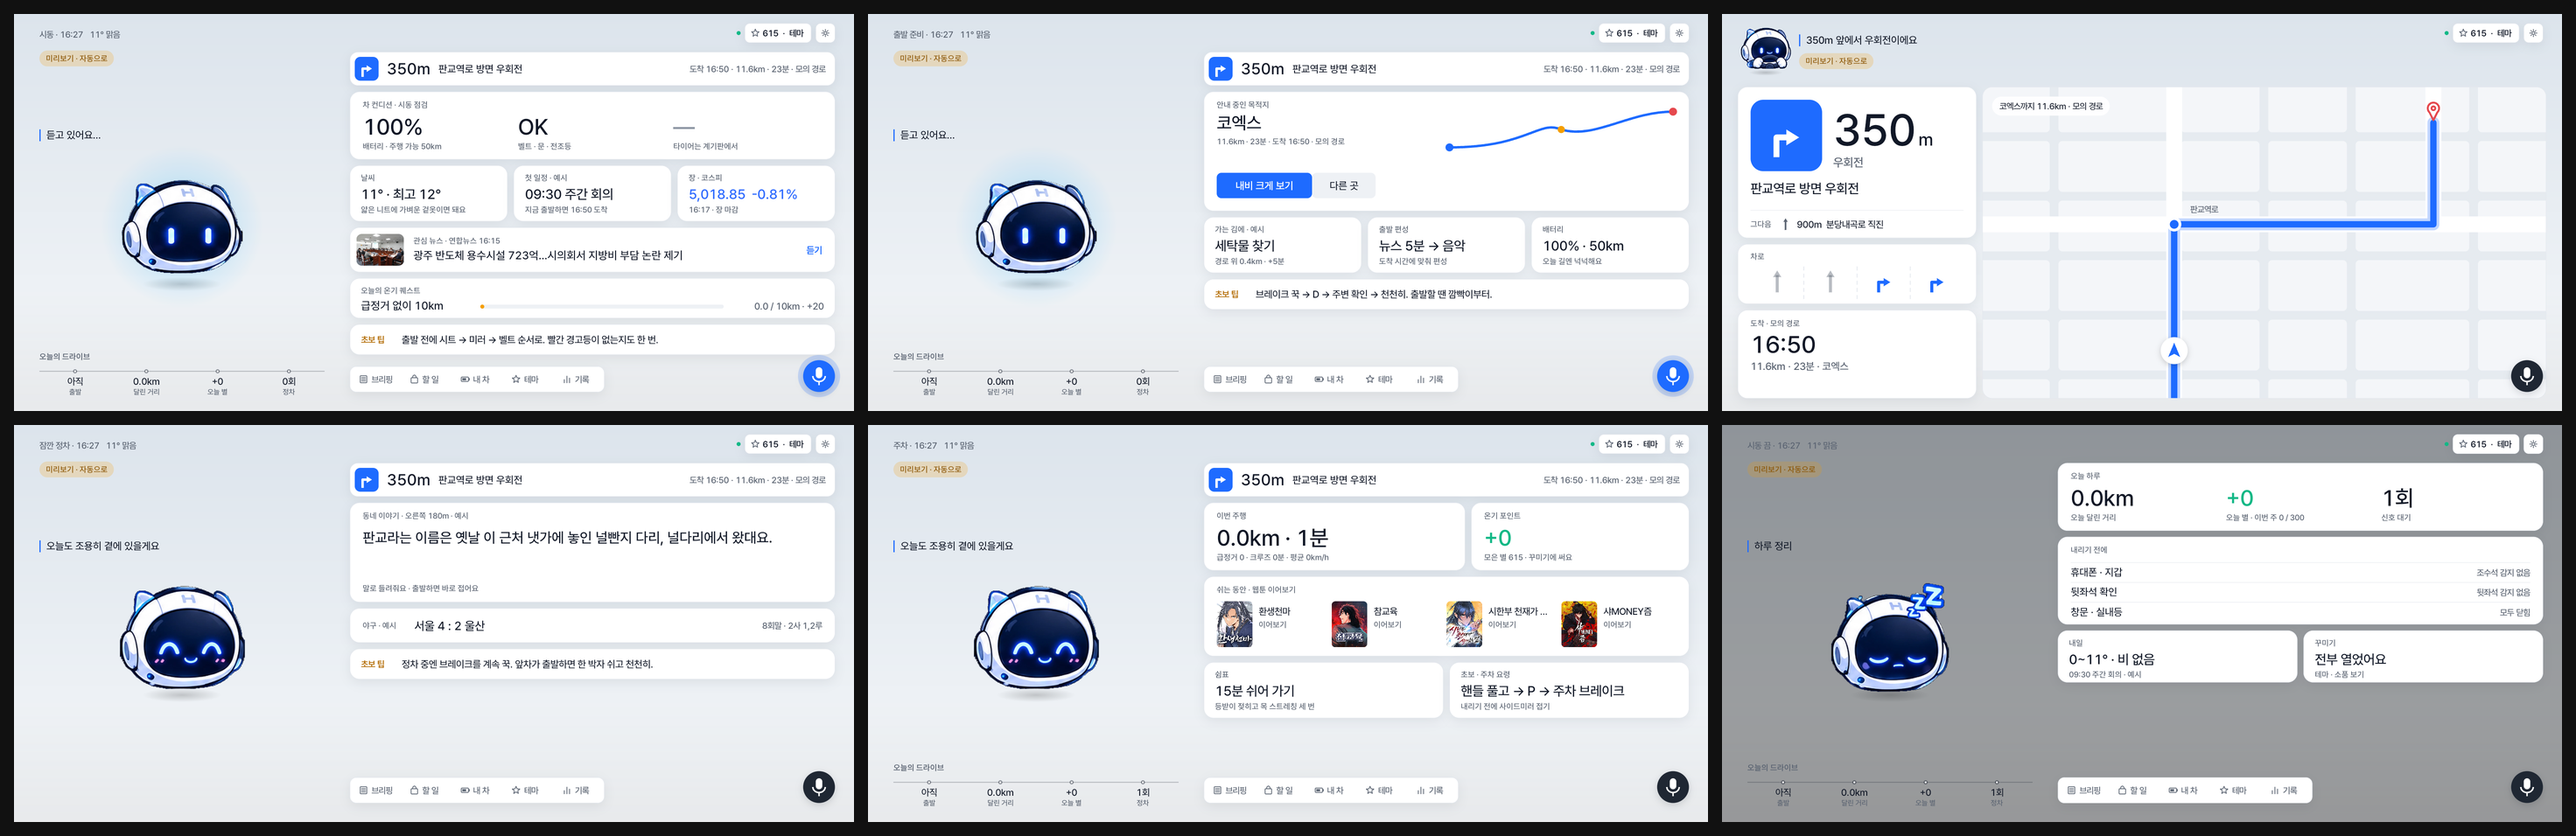
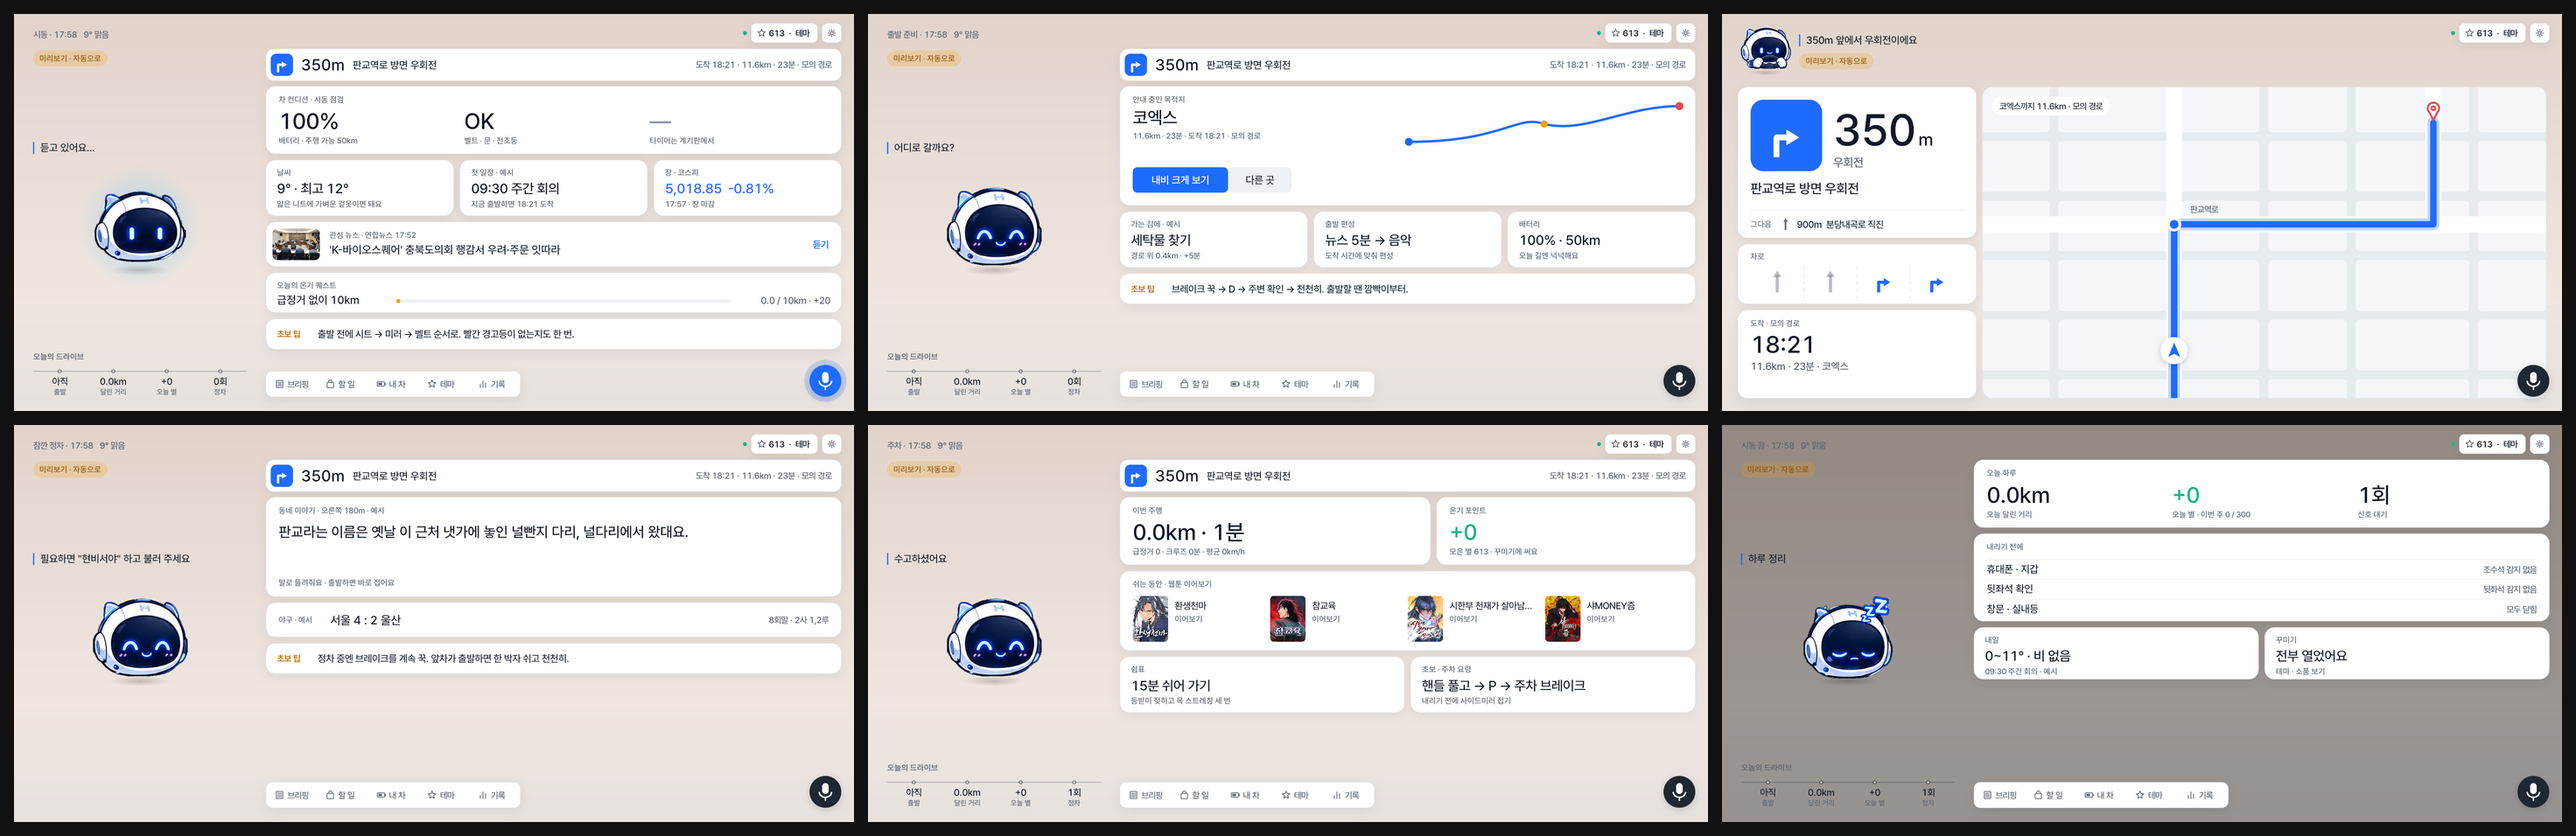
현비서 내용 칸 넓힘 — 캐릭터 칸 30% · 높이 25%, 내용 칸 70% · 바깥 여백 줄임 · 웹툰 한 줄 5권(표지 비율 유지)
Claude-Session: https://claude.ai/code/session_01NYUAipvm6FJwYqiY7XoRJQ

diff --git a/android/hyun/src/main/java/io/github/somanghao/makecar/hyun/ui/StageUi.kt b/android/hyun/src/main/java/io/github/somanghao/makecar/hyun/ui/StageUi.kt
@@ -128,11 +128,11 @@ class StageUi(private val v: HyunView, private val m: StageModel, private val ac
         if (navMain != lastNavMain) { lastNavMain = navMain; navMainAt = now }
         val nx = ((now - navMainAt) / 480f).coerceIn(0f, 1f); val ne = 1f - (1f - nx) * (1f - nx) * (1f - nx)
         val nk = if (navMain) ne else 1f - ne            // 0 = 보통 화면 · 1 = 내비 주화면
-        zoneL = if (mirror) 48 * U else w * 0.4f; zoneR = if (mirror) w * 0.6f else w - 48 * U
+        zoneL = if (mirror) 32 * U else w * 0.3f; zoneR = if (mirror) w * 0.7f else w - 32 * U   // 내용 칸 70%(댄 11-09 "컨텐츠가 영역을 더")
         if (m.sit == Sit.OFF) scrim(c, w, h, ((now - m.sitAt) / 1500f).coerceIn(0f, 0.35f))
         // 캐릭터 — 보통: 화면 높이 33% · 내비 주화면: 14% 배지(왼쪽 위)
         val showLine = !driving && m.sit != Sit.STOP && !intro && m.view == null
-        val bigH = h * 0.33f; val bigCx = if (mirror) w * 0.8f else w * 0.2f; val bigFeet = h * 0.7f
+        val bigH = h * 0.25f; val bigCx = if (mirror) w * 0.85f else w * 0.15f; val bigFeet = h * 0.66f
         val smH = h * 0.14f; val smCx = 40 * U + smH / 2; val smFeet = 16 * U + smH
         val chH = bigH + (smH - bigH) * nk; val cx = bigCx + (smCx - bigCx) * nk; val feet = bigFeet + (smFeet - bigFeet) * nk
         val react = m.reactFace.takeIf { now - m.reactAt < 1200 }
@@ -143,10 +143,10 @@ class StageUi(private val v: HyunView, private val m: StageModel, private val ac
         character(c, cx, feet, chH, t, face, alive = !driving && nk < 0.5f, small = nk > 0.5f)
         if (!intro) {
             if (nk > 0.5f) speech(c, cx + chH * 0.6f, 16 * U + chH * 0.42f, w * 0.5f, navLine())
-            else if (mirror) speech(c, zoneR + 64 * U, feet - chH - 56 * U, w - zoneR - 128 * U)
-            else speech(c, 64 * U, feet - chH - 56 * U, zoneL - 128 * U)
+            else if (mirror) speech(c, zoneR + 48 * U, feet - chH - 64 * U, w - zoneR - 96 * U)
+            else speech(c, 48 * U, feet - chH - 64 * U, zoneL - 96 * U)
         }
-        if (showLine && nk < 0.01f) { if (mirror) timeline(c, zoneR + 64 * U, w - 160 * U, h - 100 * U) else timeline(c, 64 * U, zoneL - 64 * U, h - 100 * U) }
+        if (showLine && nk < 0.01f) { if (mirror) timeline(c, zoneR + 48 * U, w - 160 * U, h - 100 * U) else timeline(c, 48 * U, zoneL - 48 * U, h - 100 * U) }
         topRight(c, w)
         if (intro) {   // 테마 인트로
             themeIntro(c, w, h, ((now - m.sitAt) / 1800f).coerceIn(0f, 1f), false)
@@ -163,9 +163,9 @@ class StageUi(private val v: HyunView, private val m: StageModel, private val ac
                 header(c)
                 val card = v.card
                 val sheetOn = m.overlay in setOf("brief", "todo", "car", "log")
-                val bottom = h - 48 * U - 64 * U - 20 * U
-                var top = 96 * U
-                if (m.navActive && !navMain) { navStrip(c, RectF(zoneL, top, zoneR, top + 84 * U)); top += 84 * U + 16 * U }
+                val bottom = h - 36 * U - 64 * U - 16 * U
+                var top = 88 * U
+                if (m.navActive && !navMain) { navStrip(c, RectF(zoneL, top, zoneR, top + 80 * U)); top += 80 * U + 14 * U }
                 val full = RectF(zoneL, top, zoneR, bottom)
                 when {
                     sheetOn -> sheet(c, full, m.overlay!!)
@@ -319,12 +319,12 @@ class StageUi(private val v: HyunView, private val m: StageModel, private val ac
         val h = 48 * U; val cy = 48 * U
         if (k.id == "arcade") {   // 8비트 점수판
             val g = tf("Galmuri11.ttf")
-            text(c, "SCORE %06d".format(m.points), w - 48 * U, cy + 6 * U, 26 * U, 0xFFFFE14D.toInt(), g, Paint.Align.RIGHT)
-            text(c, "HI %06d".format(max(m.points, 1200)), w - 48 * U, cy + 36 * U, 18 * U, 0xFF00F0FF.toInt(), g, Paint.Align.RIGHT)
-            p.textSize = 26 * U; p.typeface = g; hits += RectF(w - 48 * U - p.measureText("SCORE 000000"), cy - 24 * U, w - 48 * U, cy + 40 * U) to "deco"
+            text(c, "SCORE %06d".format(m.points), w - 32 * U, cy + 6 * U, 26 * U, 0xFFFFE14D.toInt(), g, Paint.Align.RIGHT)
+            text(c, "HI %06d".format(max(m.points, 1200)), w - 32 * U, cy + 36 * U, 18 * U, 0xFF00F0FF.toInt(), g, Paint.Align.RIGHT)
+            p.textSize = 26 * U; p.typeface = g; hits += RectF(w - 32 * U - p.measureText("SCORE 000000"), cy - 24 * U, w - 32 * U, cy + 40 * U) to "deco"
             return
         }
-        val g = RectF(w - 48 * U - h, cy - h / 2, w - 48 * U, cy + h / 2)
+        val g = RectF(w - 32 * U - h, cy - h / 2, w - 32 * U, cy + h / 2)
         glassCard(c, g, 12 * U); icon(c, "gear", g.centerX(), cy, 22 * U, MUTED); hits += g to "settings"
         val lab = "${m.points}  ·  테마"
         p.textSize = 22 * U; p.typeface = semi
@@ -610,7 +610,7 @@ class StageUi(private val v: HyunView, private val m: StageModel, private val ac
     private val DOCK = listOf("brief" to "브리핑", "todo" to "할 일", "car" to "내 차", "deco" to "테마", "log" to "기록")
     private fun dock(c: Canvas, w: Float, h: Float) {
         val dh = 64 * U; val iw = 128 * U
-        val r = RectF(zoneL, h - 48 * U - dh, zoneL + iw * DOCK.size, h - 48 * U)
+        val r = RectF(zoneL, h - 36 * U - dh, zoneL + iw * DOCK.size, h - 36 * U)
         glassCard(c, r, 16 * U)
         DOCK.forEachIndexed { i, (key, lab) ->
             val b = RectF(r.left + i * iw, r.top, r.left + (i + 1) * iw, r.bottom)
@@ -725,7 +725,7 @@ class StageUi(private val v: HyunView, private val m: StageModel, private val ac
     /** 마이크 — 오른쪽 아래 동그라미 하나(상태 글은 옆에 작게) */
     private fun micButton(c: Canvas, w: Float, h: Float) {
         val rr = 40 * U
-        val mx = w - 48 * U - rr; val my = h - 48 * U - rr
+        val mx = w - 32 * U - rr; val my = h - 36 * U - rr
         val mc = when (v.mode) { HyunView.Mode.LISTENING -> ACC; else -> if (darkUi) 0xFF262C36.toInt() else 0xFF1F2733.toInt() }
         if (v.mode == HyunView.Mode.LISTENING) { p.color = Glass.a(ACC, 50); c.drawCircle(mx, my, rr * (1.25f + 0.08f * sin(SystemClock.elapsedRealtime() / 160f)), p) }   // 라이브 상태만 움직인다
         p.color = mc; p.setShadowLayer(16 * U, 0f, 6 * U, 0x29111827); c.drawCircle(mx, my, rr, p); p.clearShadowLayer()
@@ -943,7 +943,7 @@ class StageUi(private val v: HyunView, private val m: StageModel, private val ac
     /** 왼쪽 위 — 상황 · 시각 · 날씨(세 번 누르면 디버그 판) + 레이아웃 칩(상황 화면으로 · 미리보기) */
     private fun header(c: Canvas) {
         val col = if (sceneDark) 0xCCFFFFFF.toInt() else MUTED
-        val x = if (mirror) zoneR + 64 * U else 64 * U
+        val x = if (mirror) zoneR + 48 * U else 48 * U
         val line = "${m.sit.label} · ${m.kicker.substringAfter(" · ")}" + (if (m.weatherShort.isNotBlank()) "   ${m.weatherShort}" else "")
         text(c, line, x, 60 * U, 22 * U, col, medium)
         p.textSize = 22 * U; p.typeface = medium; hits += RectF(x - 8 * U, 28 * U, x + p.measureText(line) + 8 * U, 76 * U) to "sitpill"
@@ -1314,12 +1314,12 @@ class StageUi(private val v: HyunView, private val m: StageModel, private val ac
                 lab(c, "오늘의 인기 · 네이버 웹툰 ${m.toonSource.substringAfter(" ")}", shelf.left + 32 * U, shelf.top + 40 * U)
                 // 표지(네이버 썸네일 480×623 ≈ 1:1.3)를 자르지 않게 — 비율 그대로 한 줄 4권, 넘기기
                 val g = RectF(shelf.left + 32 * U, shelf.top + 62 * U, shelf.right - 32 * U, shelf.bottom - 20 * U)
-                val per = 4; val ratio = 623f / 480f
+                val per = if (g.width() / 5 >= 230 * U) 5 else 4; val ratio = 623f / 480f
                 val coverW = min((g.width() - G * 1.5f * (per - 1)) / per, (g.height() - 60 * U) / ratio); val coverH = coverW * ratio
                 val gapX = (g.width() - coverW * per) / (per - 1)
                 val pages = max(1, (m.toons.size + per - 1) / per); val pg = m.toonPage % pages
                 if (m.toons.isEmpty()) text(c, "웹툰을 불러오는 중이에요", g.left, g.top + 60 * U, 26 * U, MUTED, medium)
-                if (pages > 1) { val lab2 = "${pg * per + 1}–${min(m.toons.size, pg * per + per)} / ${m.toons.size}   다음 ›"
+                if (pages > 1 && m.toons.size > per) { val lab2 = "${pg * per + 1}–${min(m.toons.size, pg * per + per)} / ${m.toons.size}   다음 ›"
                     text(c, lab2, shelf.right - 32 * U, shelf.top + 40 * U, 20 * U, ACC, semi, Paint.Align.RIGHT)
                     p.textSize = 20 * U; p.typeface = semi; hits += RectF(shelf.right - 48 * U - p.measureText(lab2), shelf.top + 8 * U, shelf.right - 16 * U, shelf.top + 60 * U) to "toon:next" }
                 val gy = g.top + (g.height() - coverH - 52 * U) / 2

diff --git a/docs/hyun-app.md b/docs/hyun-app.md
@@ -77,7 +77,7 @@ Claude Code 세션(두뇌): wait.py를 run_in_background로 띄워 두고(대기
 - 허브 '주행 상태' 패널: 상황 버튼 아래 '화면' select(자동 · 상황 6 · 취미 9) + '내비' 칩 → 위 두 키로 보낸다. 앱 안에서는 왼쪽 위 상황 글자를 세 번 누르면 디버그 판(상황 · 취미 · 내비 켜기 · 차 신호)
 
 ### 상황 화면 · 취미 레이아웃 · 내비(11-09, 기준 = `docs/hyun-content-plan.md`)
-- 배치: 캐릭터 왼쪽(화면 높이 33%, 캡션은 머리 위 한 줄) · 오른쪽 60% = 상황 화면(카드 묶음) 또는 취미 레이아웃 하나 · 아래 독 · 오른쪽 아래 마이크. 그리는 곳 `StageUi.stateScreen()` · `category()` · `navStrip()` · `navMainScreen()`
+- 배치(11-09 댄 "컨텐츠가 영역을 더"): 캐릭터 왼쪽 30% 칸(화면 높이 25%, 캡션은 머리 위 한 줄) · 오른쪽 70% = 상황 화면(카드 묶음) 또는 취미 레이아웃 하나 · 아래 독 · 오른쪽 아래 마이크. 그리는 곳 `StageUi.stateScreen()` · `category()` · `navStrip()` · `navMainScreen()`
 - 상황 화면 6: 시동(차 컨디션 · 날씨/첫 일정/장 · 관심 뉴스 · 온기 퀘스트) · 출발 준비(목적지 + 경로 미리보기 + 안내 시작 · 가는 김에/출발 편성/배터리) · 주행 중(= 내비 주화면) · 신호대기(다음 안내 · 동네 이야기 한 장 · 점수 한 줄) · 주차(이번 주행 · 온기 포인트 · 웹툰 이어보기 · 쉼표/주차 요령) · 시동 끔(오늘 하루 · 내리기 전에 · 내일/꾸미기). 신호 반응 이야기(2분)는 맨 위 한 줄
 - 취미 9: 뉴스(리드 사진 + 헤드라인 목록, 연합뉴스 RSS) · 내비(주화면) · 웹툰(표지 5×2 + 이어보기, 서버 네이버 웹툰) · 음악(정사각 앨범 + 진행 + 다음 곡, 예시) · 스포츠(전광판 + 이닝 표, 예시) · 주식(지수 큰 숫자 + 장중 선 + 시총 상위, 서버 네이버 증권 · 장중 선은 모양 예시) · 날씨(큰 기온 + 시간대 띠 + 차림, Open-Meteo) · 동네 이야기(인용 카드 + 근처, 예시) · 일정(시간 축 + 가는 김에, 예시)
 - 허용 규칙(`StageModel.ALLOWED`): 주행 중 = 내비만(나머지는 음성) · 신호대기 = 내비 · 동네 이야기 · 웹툰 = 주차만 · 그 밖 = 정지 상황(시동 · 출발 준비 · 주차 · 시동 끔). 사용자가 연 레이아웃은 상황이 바뀌어 허용 밖이면 자동으로 닫힘. 미리보기는 예외

diff --git a/docs/hyun-content-plan.md b/docs/hyun-content-plan.md
@@ -95,7 +95,7 @@
 | 일정/할 일 | **시간 축 타임라인 + 가는 김에 끼우기** | 시각 열 · 일정 · 장소 · 가는 김에(경유 추가) | 첫 일정 | 가는 김에 | 음성(10분 전) | — | — | 내일 첫 일정 |
 
 공통 규칙
-- 캐릭터는 늘 왼쪽(높이 33%) — 카테고리가 바뀌어도 캐릭터 캡션 한 줄이 그 정보를 말로 요약("오늘 장은 조금 내렸어요").
+- 캐릭터는 늘 왼쪽(높이 25% · 왼쪽 30% 칸, 11-09 내용 칸을 70%로 넓힘) — 카테고리가 바뀌어도 캐릭터 캡션 한 줄이 그 정보를 말로 요약("오늘 장은 조금 내렸어요").
 - 카테고리 레이아웃은 색만 바꾸지 않는다 — 정보의 모양이 다르다(사진 / 큰 화살표 / 표지 / 정사각 / 전광판 / 큰 숫자 + 선 / 큰 기온 / 인용 / 시간 축).
 - 주행 중엔 내비 레이아웃만, 나머지는 음성. 신호대기는 "한 줄" 버전, 주차는 "전체" 버전.
 - 숫자는 고정폭, 등락 색은 의미에만(상승 빨강 · 하락 파랑 — 국내 관례), 강조색은 화면당 1~2곳.

diff --git a/docs/hyun-design.md b/docs/hyun-design.md
@@ -20,7 +20,7 @@
 
 ## 레이아웃 (1920×1080 기준, 실제 앱 영역에 비율 적용)
 - 12컬럼, 바깥 여백 48, 거터 24, 8px 단위.
-- 캐릭터 존 왼쪽 7컬럼(~58%): 배경 일러스트 전체, 캐릭터는 하단 1/3 바닥선, 높이 50~60%.
+- 캐릭터 존 왼쪽 7컬럼(~58%): 배경 일러스트 전체, 캐릭터는 하단 1/3 바닥선, 높이 50~60%. (11-09 개정: 상황 화면·취미 레이아웃이 들어오며 캐릭터 칸 30% · 높이 25%, 내용 칸 70% — `docs/hyun-app.md` 상황 화면 절)
 - 메시지 존 오른쪽 5컬럼: 세로 중앙 카드 1장 = 상황 칩 + 제목 1줄 + 본문 ≤2줄 + 주 버튼 1(+보조 텍스트 버튼).
 - 주행 중: 캐릭터 존 70%, 카드는 제목+아이콘만, 음성 위주, 2초 안에 읽힘.
 - 포인트·테마 진입 = 우상단 작은 알약 버튼 1개. 대시보드 타일 금지.
